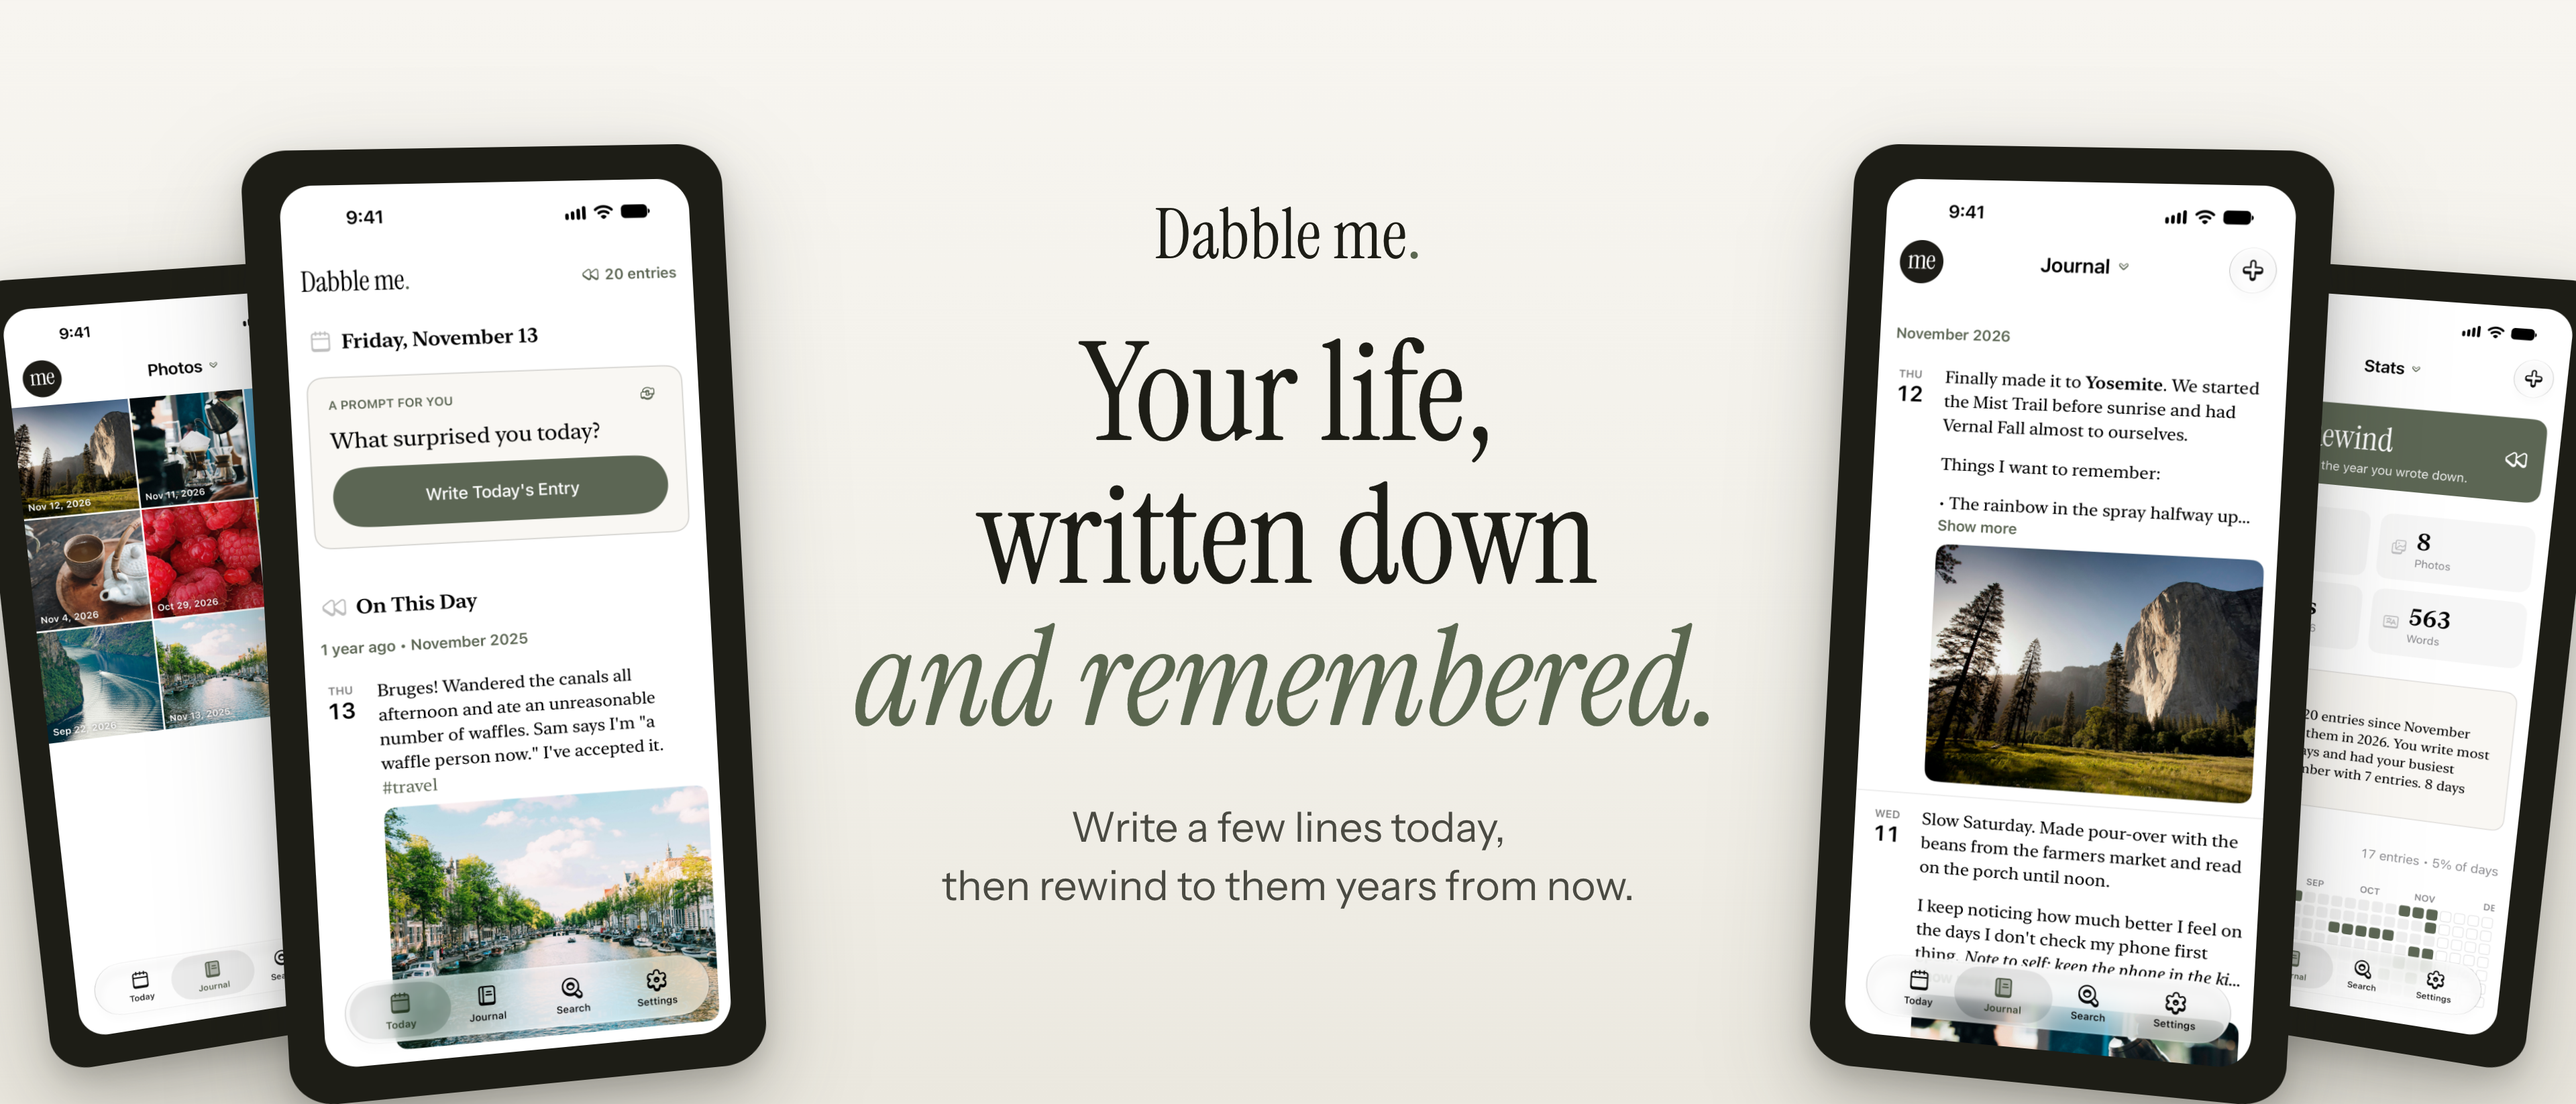
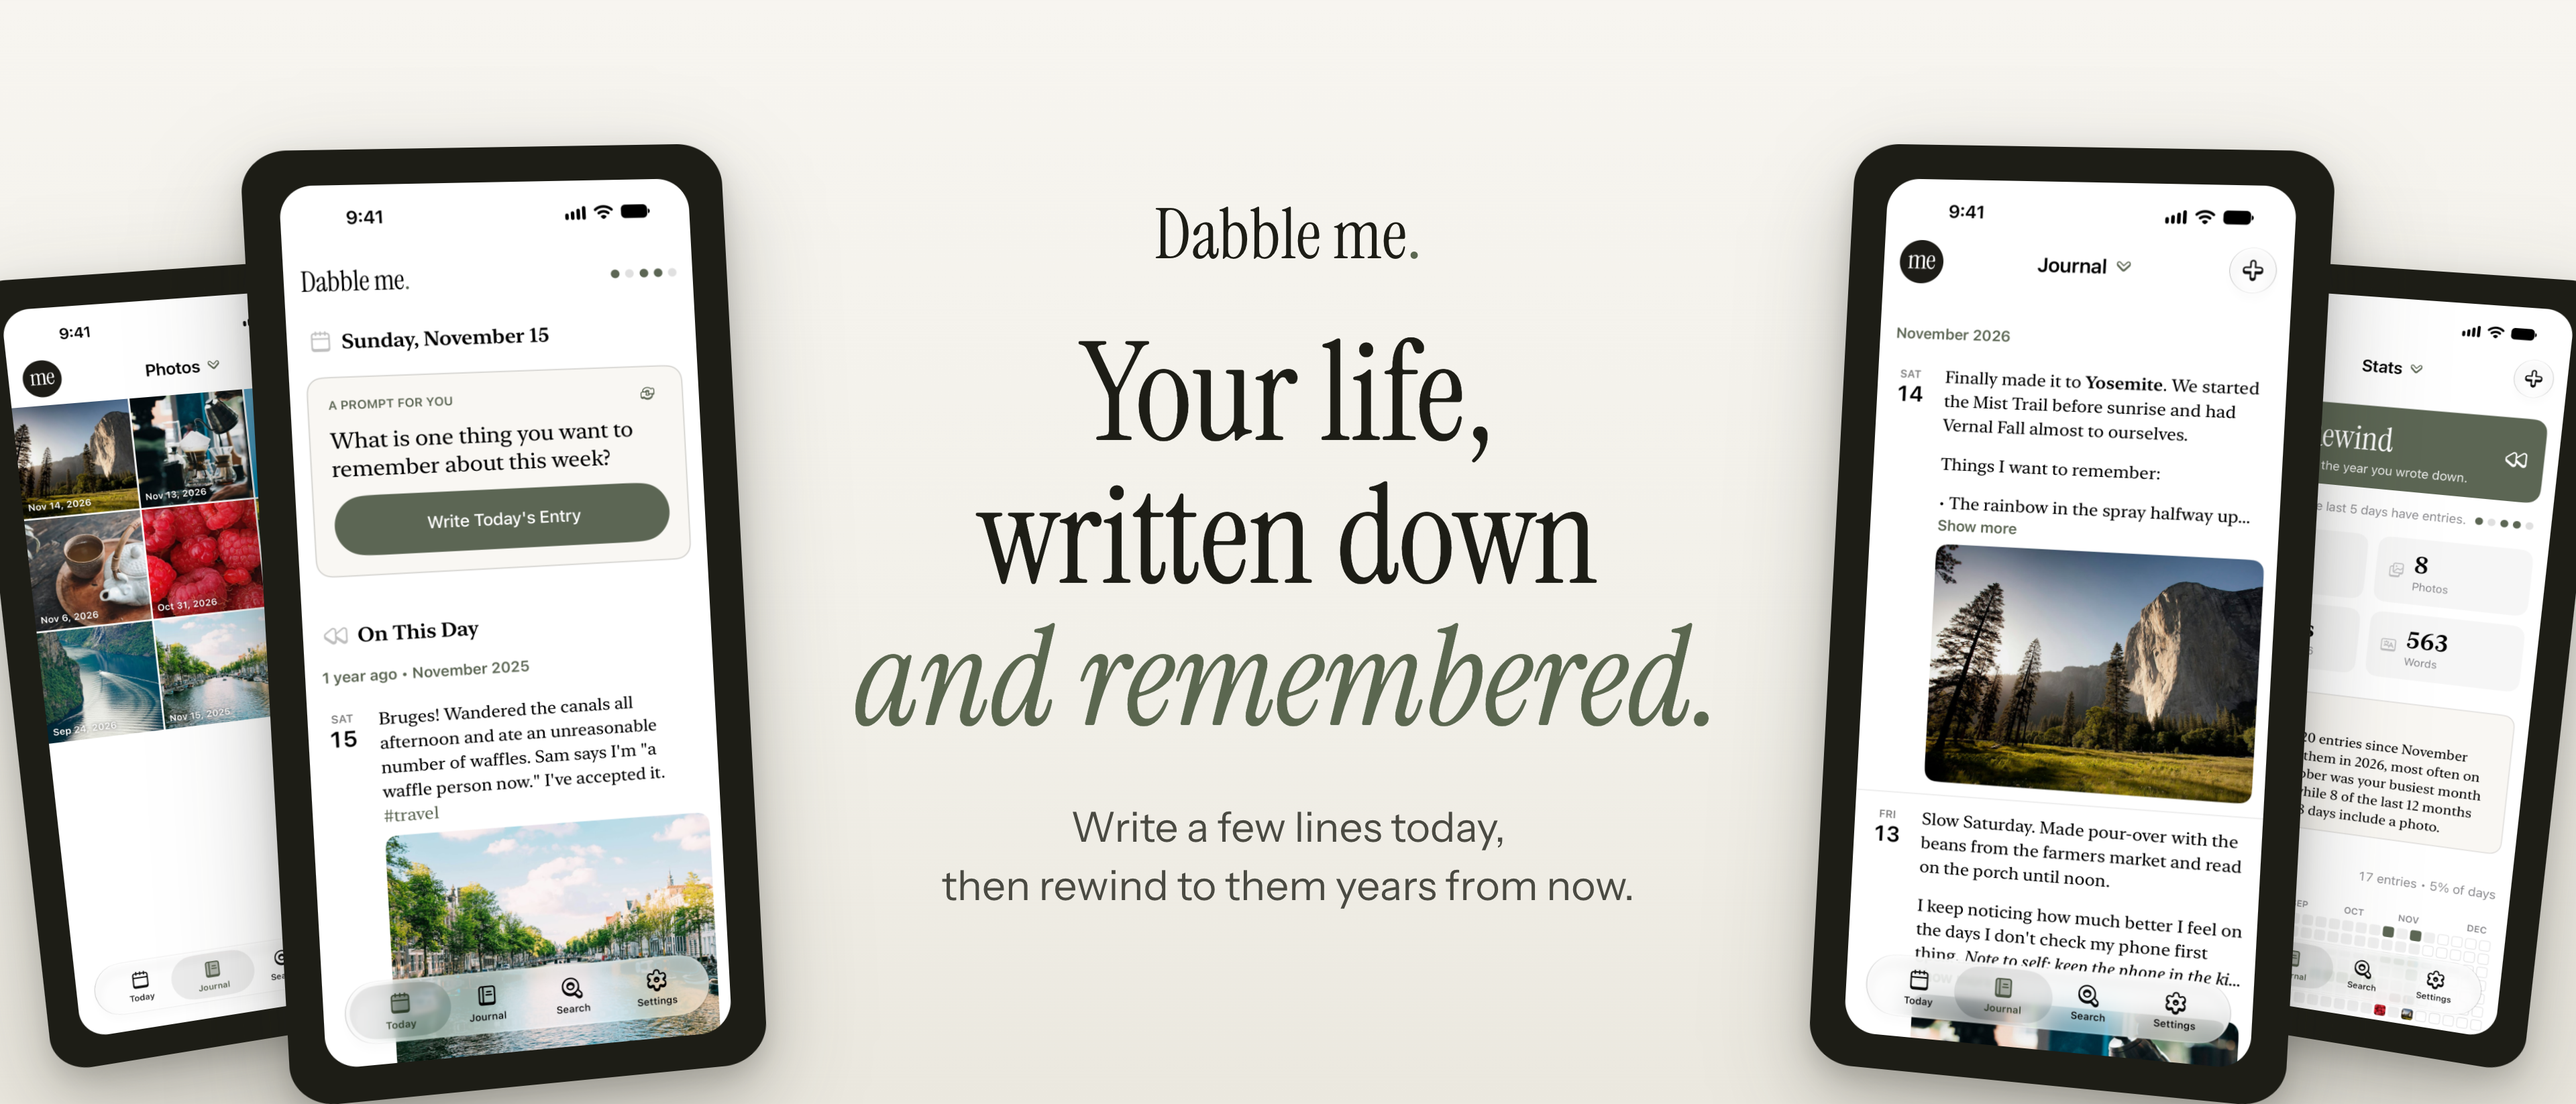
iOS: new App Store screenshots, ten per device
Adds an On This Day entry and the composer's ideas row to the set, and
re-renders the header and search-results images from the new shots.
The Stats overview now always starts with a capital letter.

diff --git a/ios/DabbleMeUITests/ScreenshotTests.swift b/ios/DabbleMeUITests/ScreenshotTests.swift
@@ -15,6 +15,7 @@ final class ScreenshotTests: XCTestCase {
         let app = XCUIApplication()
         app.launchArguments = ["-DabbleDebugAccessToken", token, "-DabbleServerOverride", testServer,
                                "-DabbleDebugComposePhotoURLs", photos, "-readingTextSize", "1",
+                               "-DabbleDebugCalendar", "YES", // a made-up day's events, for the "?" row
                                "-stats.heatmapCell", "13"] // Stats' grid at its own size, whatever a test pinched it to
         app.launch()
 
@@ -29,9 +30,22 @@ final class ScreenshotTests: XCTestCase {
             try? XCUIScreen.main.screenshot().pngRepresentation.write(to: URL(fileURLWithPath: "\(dir)/\(name).png"))
         }
 
-        // 1. Today: prompt, write button, On This Day.
+        // 1. Today: prompt, write button, On This Day, and the last five days as dots.
         XCTAssertTrue(app.staticTexts["On This Day"].waitForExistence(timeout: 20))
+        sleep(3) // the dots come in a moment after Today
         shot("01-today")
+
+        // 4. (Taken here, from Today.) A past entry with the same day in other years under it.
+        let memory = app.descendants(matching: .any).matching(NSPredicate(format: "label CONTAINS %@", "Bruges! Wandered")).firstMatch
+        XCTAssertTrue(memory.waitForExistence(timeout: 10))
+        app.openTimelineEntry(memory)
+        XCTAssertTrue(app.buttons["Edit Entry"].waitForExistence(timeout: 10))
+        XCTAssertTrue(app.staticTexts["On This Day"].waitForExistence(timeout: 10))
+        // Up a little, so the last of the other years sits clear of the floating buttons.
+        let middle = app.coordinate(withNormalizedOffset: CGVector(dx: 0.5, dy: 0.6))
+        middle.press(forDuration: 0.05, thenDragTo: middle.withOffset(CGVector(dx: 0, dy: -110)), withVelocity: .slow, thenHoldForDuration: 0.2)
+        shot("04-on-this-day")
+        app.navigationBars.buttons.element(boundBy: 0).tap()
 
         // 2. Journal timeline.
         tab("Journal").tap()
@@ -64,13 +78,28 @@ final class ScreenshotTests: XCTestCase {
         // rows sit on the keyboard, so the keyboard stays up).
         app.buttons["Photos"].tap()
         sleep(1)
-        shot("04-write")
+        shot("05-write")
         app.buttons["Cancel"].tap()
         app.buttons["Discard"].tap()
         XCTAssertTrue(editor.waitForNonExistence(timeout: 10))
         sleep(1)
 
-        // 5–6. Journal's Photos and Stats views, from the title menu.
+        // 6. What to write about, on a blank page: the day's calendar over a prompt.
+        app.buttons["New Entry"].tap()
+        XCTAssertTrue(editor.waitForExistence(timeout: 5))
+        // (No tap on the page: on a blank one that brings up Paste / AutoFill over it.)
+        XCTAssertTrue(app.keyboards.firstMatch.waitForExistence(timeout: 5))
+        if app.buttons["Start Over"].waitForExistence(timeout: 2) { app.buttons["Start Over"].tap() }
+        app.buttons["Prompt"].tap()
+        XCTAssertTrue(app.staticTexts["AskMeQuestion"].waitForExistence(timeout: 60))
+        sleep(1)
+        shot("06-ideas")
+        app.buttons["Cancel"].tap()
+        if app.buttons["Discard"].waitForExistence(timeout: 2) { app.buttons["Discard"].tap() }
+        XCTAssertTrue(editor.waitForNonExistence(timeout: 10))
+        sleep(1)
+
+        // 7–8. Journal's Photos and Stats views, from the title menu.
         func journalView(_ current: String, _ mode: String) {
             let title = app.navigationBars.buttons[current].exists ? app.navigationBars.buttons[current] : app.navigationBars.staticTexts[current]
             XCTAssertTrue(title.waitForExistence(timeout: 10))
@@ -82,20 +111,20 @@ final class ScreenshotTests: XCTestCase {
         }
         journalView("Journal", "Photos")
         XCTAssertTrue(app.buttons.matching(NSPredicate(format: "label BEGINSWITH 'Photo from'")).firstMatch.waitForExistence(timeout: 10))
-        shot("05-photos")
+        shot("07-photos")
         journalView("Photos", "Stats")
         XCTAssertTrue(app.statTile("Words").waitForExistence(timeout: 10))
-        shot("06-stats")
+        shot("08-stats")
         journalView("Stats", "Journal")
 
-        // 7–8. Search: the hashtag cloud, then a hashtag's entries.
+        // 9–10. Search: the hashtag cloud, then a hashtag's entries.
         tab("Search").tap()
         XCTAssertTrue(app.staticTexts["Your Hashtags This Year"].waitForExistence(timeout: 10))
-        shot("07-hashtags")
+        shot("09-hashtags")
         app.buttons["#hiking"].tap()
         XCTAssertTrue(app.descendants(matching: .any).matching(NSPredicate(format: "label CONTAINS %@", "Yosemite")).firstMatch
             .waitForExistence(timeout: 10))
         if app.keyboards.count > 0 { app.swipeDown() }
-        shot("08-search")
+        shot("10-search")
     }
 }

diff --git a/ios/DabbleMe/Support/JournalIntelligence.swift b/ios/DabbleMe/Support/JournalIntelligence.swift
@@ -503,9 +503,16 @@ enum JournalIntelligence {
                 prompt: "Facts:\n" + facts.map { "- \($0)" }.joined(separator: "\n"),
                 temperature: 0.5
             )
-            if !overviewUsesAName(reply, facts: source) { return reply }
+            // (The model now and then opens with a small letter: "you've written…".)
+            if !overviewUsesAName(reply, facts: source) { return capitalizingFirst(reply) }
         }
         throw Failure.noAnswer
+    }
+
+    /// The text with its first letter a capital.
+    static func capitalizingFirst(_ text: String) -> String {
+        let trimmed = text.trimmingCharacters(in: .whitespacesAndNewlines)
+        return trimmed.prefix(1).uppercased() + trimmed.dropFirst()
     }
 
     /// Whether an overview names someone: a capitalized word that isn't in the facts, either inside

diff --git a/ios/DabbleMe/Views/StatsView.swift b/ios/DabbleMe/Views/StatsView.swift
@@ -150,7 +150,8 @@ private struct StatsOverview: View {
     @State private var failed = false
 
     private var key: String { "2|\(today.iso)|\(stats.totalEntries)|\(stats.totalWords)" }
-    private var text: String? { savedKey == key && !savedText.isEmpty ? savedText : nil }
+    /// (One kept from before overviews were given their capital gets it here.)
+    private var text: String? { savedKey == key && !savedText.isEmpty ? JournalIntelligence.capitalizingFirst(savedText) : nil }
     /// What shows if the model can't write one: the plainest facts, as before.
     private var fallback: String { JournalIntelligence.statsFacts(stats, today: today).prefix(3).joined(separator: " ") }
 

diff --git a/ios/AppStore/metadata.md b/ios/AppStore/metadata.md
@@ -148,16 +148,20 @@ The app has no analytics or crash SDKs, and these answers match `DabbleMe/Resour
 
 In `ios/AppStore/Screenshots/` (`iPhone 6.3in`, `iPad 13in`, and the header and search-results images rendered from them): **iPhone 6.3"** at 1206 × 2622 (iPhone 18 Pro simulator) and **13" iPad** at 2064 × 2752, both from the made-up demo account (never a real journal), via `ScreenshotTests` (see `ios/README.md`):
 
-1. Today: the date, today's prompt, and On This Day
+1. Today: the date, a prompt, On This Day, and the last five days as dots
 2. Journal timeline with photos and month sections
-3. An entry with formatting, a list and a photo
-4. Writing an entry: the keyboard up, with its photos and the editor bar
-5. Journal > Photos
-6. Journal > Stats (the 2026 Rewind card shows in its season, November to January)
-7. Search: your hashtags this year
-8. Search results for #hiking
+3. An entry in its card, with formatting, a list and a photo
+4. A past entry with the same day in other years under it (On This Day)
+5. Writing an entry: the keyboard up, with its photos and the editor bar
+6. What to write about: the day's calendar events over a prompt (the "?" button)
+7. Journal > Photos
+8. Journal > Stats (the 2026 Rewind card shows in its season, November to January)
+9. Search: your hashtags this year
+10. Search results for #hiking
 
-`bundle exec rails ios:demo_account` seeds that account locally, with its photos straight from Unsplash. It needs valid AWS credentials in `.env` to store them (a different `AWS_ACCESS_KEY_ID` set in the shell wins over `.env`, so unset it first).
+The calendar events in 6 are made up (`-DabbleDebugCalendar YES`), like the rest of the demo account.
+
+`bundle exec rails ios:demo_account` seeds that account locally, with its photos straight from Unsplash. It needs valid AWS credentials in `.env` to store them. A different `AWS_ACCESS_KEY_ID` set in the shell wins over `.env`, so run it as `env -u AWS_ACCESS_KEY_ID -u AWS_SECRET_ACCESS_KEY bundle exec rails ios:demo_account`; the last line it prints should say how many entries have photos.
 
 **Header and search-results images** (`Header and Search Results/`, rendered by `source/render.sh` from the iPhone screenshots):
 

diff --git a/ios/README.md b/ios/README.md
@@ -115,7 +115,7 @@ TEST_RUNNER_DABBLE_TOKEN=<token> xcodebuild test -project DabbleMe.xcodeproj -sc
 - They talk to `http://localhost:3000`. If something else on the Mac has taken that port on localhost (an editor's port forwarding answers 403), point them at the Mac's own address: `TEST_RUNNER_DABBLE_SERVER=http://$(ipconfig getifaddr en0):3000`.
 - Start Puma before Sidekiq, a few seconds apart: `.env` is a 1Password pipe, and two processes opening it at once can leave one without AWS keys.
 - **Face ID lock test:** enroll Face ID on the simulator (`xcrun simctl spawn <device> notifyutil -s com.apple.BiometricKit.enrollmentChanged 1` and then `-p` the same name). Run a helper that sends one match (`xcrun simctl spawn <device> notifyutil -p com.apple.BiometricKit_Sim.pearl.match`) whenever `$TEST_RUNNER_DABBLE_DEBUG_DIR/faceid-match` appears, then deletes the file. Also set `TEST_RUNNER_DABBLE_FACE_ID=1`.
-- **App Store screenshots:** set `TEST_RUNNER_DABBLE_SCREENSHOT_DIR` and run `ScreenshotTests` on the iPhone 18 Pro (1206 × 2622) and iPad Pro 13" simulators. Reset the demo account first so Today has no entry yet.
+- **App Store screenshots:** set `TEST_RUNNER_DABBLE_SCREENSHOT_DIR` and run `ScreenshotTests` on the iPhone 18 Pro (1206 × 2622) and iPad Pro 13" simulators. Reset the demo account first so Today has no entry yet, and set each simulator's status bar (`xcrun simctl status_bar <device> override --time 9:41 --batteryState discharging --batteryLevel 100 --wifiBars 3 --cellularBars 4`) and appearance (`xcrun simctl ui <device> appearance light`). It writes ten, `01-today` to `10-search`; copy them into `AppStore/Screenshots/` and run `Header and Search Results/source/render.sh` for the two wide images.
 - **Free-account controls:** `bundle exec rails ios:free_account` prints a token for `TEST_RUNNER_DABBLE_FREE_TOKEN` (e.g. the email schedule's locked days).
 - **First-time hashtag suggestions:** `bundle exec rails ios:empty_account` prints a token for a PRO account with no hashtags; pass it as `TEST_RUNNER_DABBLE_EMPTY_TOKEN`.
 - **Widget test:** `WidgetTests` adds the widget to the simulator's home screen and screenshots it; set `TEST_RUNNER_DABBLE_WIDGET=1`.
